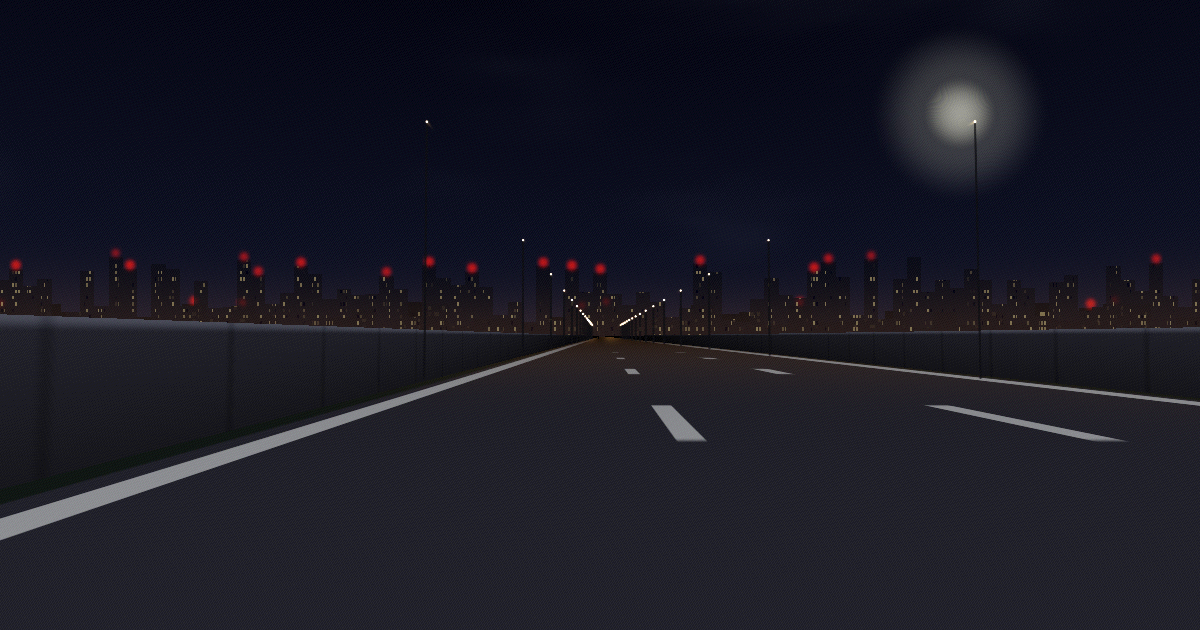
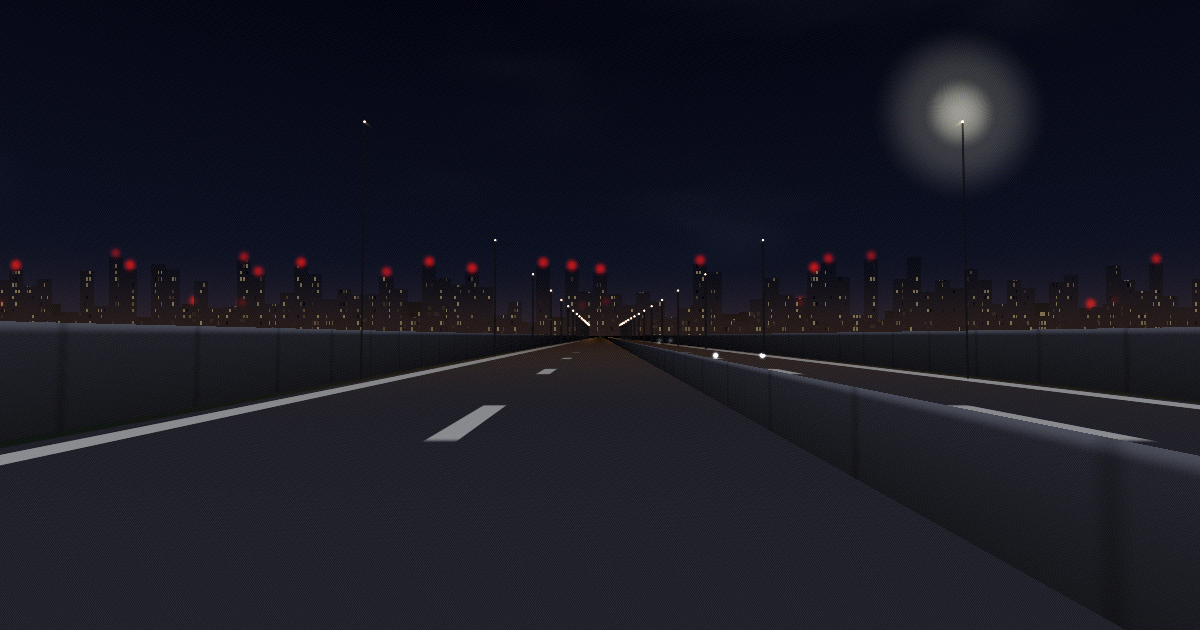
Divided 4-lane highway + occasional oncoming cars with headlights
- 4 lanes (2+2) split by a central median guardrail: lanes=4, road
  widened (roadHalfWidth 10), camera moved to the inner left lane
  (laneOffset -2.5). Lane loop skips the centre divider; the wall pass now
  renders three barriers (left/right wall + centre median, u_medianHeight).
- Oncoming traffic on the far carriageway: scene.js spawns a car every
  carMinGap..carMaxGap s (default 40-120 s), approaching at carSpeed and
  despawning after it passes; up to 4 tracked. Passed to the shader as
  u_cars[4] (laneX, Z); headlights are projected as bright point glows
  (u_carHead* / u_carHeadCol), fogged with distance and dimmed where the
  median occludes (reuses u_wallLight). Headlights kept point-bright
  (distance scales size, not brightness).
- Fix: query the array uniform as u_cars[0] (bare name returned null →
  cars never uploaded). Tests/OG set u_cars[0] and exercise oncoming cars.

https://claude.ai/code/session_014aiygT373NYLjej9iisv7b

diff --git a/js/shaders.js b/js/shaders.js
@@ -85,6 +85,7 @@ void main(){
         for (int j = 1; j < 8; j++) {
             if (j >= u_laneCount) break;
             float pos = -u_laneEdge + float(j) * (2.0 * u_laneEdge / float(u_laneCount));
+            if (abs(pos) < 0.03) continue;   // 中央（分離帯）は破線でなくガードレール
             float dline = 1.0 - smoothstep(0.020, 0.020 + aa, abs(lane - pos));
             marks = max(marks, dline * dash);
         }
@@ -171,35 +172,37 @@ void main(){
     // 地平線の暖色かすみ（真の地平線 dir.y≈0 に沿う）
     col += u_hazeCol * exp(-(dir.y * dir.y) * u_hazeSharp) * u_hazeIntensity;
 
-    // ===== 道路脇の塀（左右の垂直な壁。x=±(roadHalfWidth+offset) の平面と交差）=====
+    // ===== 塀（左右の壁）＋ 中央分離帯のガードレール（垂直面 x=baseX と交差）=====
     if (u_wall > 0.5 && abs(dir.x) > 1e-4) {
         float wallBestT = 1e9;
         vec3 wallShade = vec3(0.0);
         bool wallHit = false;
         float tgRoad = (dir.y < -0.0008) ? (-u_camHeight / dir.y) : 1e9; // 道路面までの距離（手前遮蔽判定用）
-        for (int s = 0; s < 2; s++) {
-            float sgn = (s == 0) ? -1.0 : 1.0;
-            float baseX = sgn * (u_roadHalfWidth + u_wallOffset);
+        for (int s = 0; s < 3; s++) {
+            // s=0:左壁  s=1:右壁  s=2:中央分離帯（低いガードレール）
+            float baseX = (s == 0) ? -(u_roadHalfWidth + u_wallOffset)
+                        : (s == 1) ?  (u_roadHalfWidth + u_wallOffset) : 0.0;
+            float hgt = (s == 2) ? u_medianHeight : u_wallHeight;
             float t = (baseX - u_camX) / dir.x;
             if (t <= 0.0) continue;
             float zhit = t * dir.z;
             if (zhit <= 0.0) continue;
-            // 道路のカーブに合わせて壁の X 位置を補正して再交差
+            // 道路のカーブに合わせて X 位置を補正して再交差
             float wx = baseX + curveAt(zhit);
             t = (wx - u_camX) / dir.x;
             if (t <= 0.0) continue;
             zhit = t * dir.z;
             if (zhit <= 0.0) continue;
             float yhit = u_camHeight + t * dir.y;
-            if (yhit < 0.0 || yhit > u_wallHeight) continue;  // 壁の上下からはみ出したら背景
+            if (yhit < 0.0 || yhit > hgt) continue;           // 壁の上下からはみ出したら背景
             if (t >= tgRoad) continue;                        // 道路面が手前にあるなら見えない
             if (t >= wallBestT) continue;
             wallBestT = t;
             wallHit = true;
             float fog = exp(-zhit * u_fogDensity);
-            float yn = clamp(yhit / u_wallHeight, 0.0, 1.0);
+            float yn = clamp(yhit / hgt, 0.0, 1.0);
             vec3 c = mix(u_wallCol * 0.6, u_wallCol, yn);                 // 下ほど暗い
-            c = mix(c, u_wallTopCol, smoothstep(0.90, 1.0, yn));         // 笠木（上端）の明るい縁
+            c = mix(c, u_wallTopCol, smoothstep(0.88, 1.0, yn));         // 笠木（上端）の明るい縁
             float fz = fract(zhit / 3.0);                                // 3m ごとのパネル継ぎ目
             float seam = smoothstep(0.0, 0.05, fz) * (1.0 - smoothstep(0.95, 1.0, fz));
             c *= mix(0.78, 1.0, seam);
@@ -273,7 +276,27 @@ void main(){
         }
     }
 
-    // 塀は不透明な手前の面なので、灯のライトの滲みを抑える
+    // ===== 対向車のヘッドライト（反対車線。u_cars[k] = (laneX, Z)。Z<=0 は非アクティブ）=====
+    for (int k = 0; k < 4; k++) {
+        vec2 car = u_cars[k];
+        float cz = car.y;
+        if (cz <= 0.5) continue;
+        float cxBase = car.x + curveAt(cz) - u_camX;
+        for (int hl = 0; hl < 2; hl++) {
+            float off = (hl == 0) ? -u_carTrack : u_carTrack;
+            vec3 hp = project(vec3(cxBase + off, u_carHeadH - u_camHeight, cz), cp, sp, tanX, tanY);
+            if (hp.z <= 0.05) continue;
+            float ps = clamp(1.0 / hp.z, 0.05, 3.0);
+            vec2 Hp = vec2(hp.x * aspect, hp.y);
+            vec2 Pp = vec2(uv.x * aspect, uv.y);
+            float r = u_carHeadSize * ps + 0.0025;   // 近いほど大きく
+            float d = distance(Pp, Hp);
+            float fade = exp(-cz * u_fogDensity);     // ヘッドライトは点光源：減衰は大気フェードのみ
+            light += u_carHeadCol * exp(-(d * d) / (r * r)) * u_carHeadBright * fade;
+        }
+    }
+
+    // 塀は不透明な手前の面なので、灯のライト（対向車含む）の滲みを抑える
     if (onWall) light *= u_wallLight;
 
     // 彩度を少し上げて全体を鮮明に（背景のみ）
@@ -306,7 +329,7 @@ NH.buildFragment = function (opts) {
     head += opts.derivatives ? "#define AAW(x) (fwidth(x))\n" : "#define AAW(x) (0.0)\n";
 
     // エンジン uniform ＋ PARAMS 由来 uniform
-    var decls = "uniform vec2 u_res;\nuniform float u_scroll;\nuniform float u_sway;\nuniform float u_time;\nuniform float u_cityPhase;\nuniform float u_cityScroll;\nuniform float u_cloudScroll;\n";
+    var decls = "uniform vec2 u_res;\nuniform float u_scroll;\nuniform float u_sway;\nuniform float u_time;\nuniform float u_cityPhase;\nuniform float u_cityScroll;\nuniform float u_cloudScroll;\nuniform vec2 u_cars[4];\n";
     for (var i = 0; i < params.length; i++) {
         var p = params[i];
         if (p.uniform) decls += "uniform " + glType(p.type) + " " + p.uniform + ";\n";

diff --git a/js/config.js b/js/config.js
@@ -29,15 +29,21 @@ NH.PARAMS = [
     { key: "cityFlowRate",  def: 0.3,   ui: { min: 0, max: 1, step: 0.05 } },  // 都市の揺れ速度（swaySpeed に対する倍率。JS で u_cityPhase を生成）
     { key: "citySpeed",     def: 0.015, ui: { min: 0, max: 0.2, step: 0.005 } }, // 前進に伴う遠景都市の平行移動速度（アスペクトX/秒。JS で u_cityScroll を生成）
 
+    // --- 対向車（JS専用：たまに反対車線を走る）---
+    { key: "carMinGap",     def: 40.0,  ui: { min: 5, max: 120, step: 1 } },   // 出現間隔の最小(秒)
+    { key: "carMaxGap",     def: 120.0, ui: { min: 10, max: 300, step: 5 } },  // 出現間隔の最大(秒)
+    { key: "carSpeed",      def: 42.0,  ui: { min: 10, max: 90, step: 1 } },   // 相対接近速度(m/s)
+    { key: "carSpawnDist",  def: 235.0, ui: { min: 60, max: 400, step: 5 } },  // 出現距離(m)
+
     // --- カメラ ---
     { key: "camHeight",     def: 1.4,   uniform: "u_camHeight",     type: "float", ui: { min: 0.2, max: 10, step: 0.1 } },
     { key: "pitchDeg",      def: 2.0,   uniform: "u_pitch",         type: "float", map: function (v) { return v * D2R; }, ui: { min: -10, max: 20, step: 0.5 } },
     { key: "fovDeg",        def: 55.0,  uniform: "u_fovTan",        type: "float", map: function (v) { return Math.tan(v * D2R * 0.5); }, ui: { min: 30, max: 90, step: 1 } },
-    { key: "laneOffset",    def: -4.0,  uniform: "u_camX",          type: "float", ui: { min: -12, max: 12, step: 0.5 } },
+    { key: "laneOffset",    def: -2.5,  uniform: "u_camX",          type: "float", ui: { min: -12, max: 12, step: 0.5 } }, // 中央分離帯寄りの内側車線
 
     // --- 道路 ---
-    { key: "roadHalfWidth", def: 9.0,   uniform: "u_roadHalfWidth", type: "float", ui: { min: 2, max: 20, step: 0.5 } },
-    { key: "lanes",         def: 3,     uniform: "u_laneCount",     type: "int",   ui: { min: 1, max: 6, step: 1 } },   // 車線数（破線で等分）
+    { key: "roadHalfWidth", def: 10.0,  uniform: "u_roadHalfWidth", type: "float", ui: { min: 2, max: 20, step: 0.5 } },
+    { key: "lanes",         def: 4,     uniform: "u_laneCount",     type: "int",   ui: { min: 1, max: 8, step: 1 } },   // 車線数（2+2を中央分離帯で区切る）
     { key: "roadRaise",     def: 0.25,  uniform: "u_roadRaise",     type: "float", ui: { min: 0, max: 2, step: 0.05 } },  // 外の地面より道路を高く
     { key: "dashLength",    def: 14.0,  uniform: "u_dashLength",    type: "float", ui: { min: 1, max: 30, step: 0.5 } },
     { key: "dashDuty",      def: 0.32,  uniform: "u_dashDuty",      type: "float", ui: { min: 0.1, max: 0.9, step: 0.02 } }, // 塗り割合（小さいほど隙間が長い）
@@ -49,6 +55,13 @@ NH.PARAMS = [
     { key: "wallHeight",    def: 1.6,   uniform: "u_wallHeight",    type: "float", ui: { min: 0.2, max: 4, step: 0.1 } },   // 塀の高さ(m)
     { key: "wallOffset",    def: 0.5,   uniform: "u_wallOffset",    type: "float", ui: { min: 0, max: 4, step: 0.1 } },     // 路端から塀までの距離(m)
     { key: "wallLight",     def: 0.3,   uniform: "u_wallLight",     type: "float", ui: { min: 0, max: 1, step: 0.05 } },   // 塀ピクセルでの灯ライトの残し量（小さいほど塀越しの滲みが減る）
+    { key: "medianHeight",  def: 0.9,   uniform: "u_medianHeight",  type: "float", ui: { min: 0, max: 2, step: 0.05 } },  // 中央分離帯ガードレールの高さ(m)
+
+    // --- 対向車のヘッドライト ---
+    { key: "carHeadH",      def: 0.7,   uniform: "u_carHeadH",      type: "float", ui: { min: 0.2, max: 1.5, step: 0.05 } }, // ヘッドライトの高さ(m)
+    { key: "carTrack",      def: 0.85,  uniform: "u_carTrack",      type: "float", ui: { min: 0.3, max: 1.5, step: 0.05 } }, // 左右ライトの間隔(半幅, m)
+    { key: "carHeadSize",   def: 0.018, uniform: "u_carHeadSize",   type: "float", ui: { min: 0.005, max: 0.06, step: 0.001 } },
+    { key: "carHeadBright", def: 3.2,   uniform: "u_carHeadBright", type: "float", ui: { min: 0.5, max: 8, step: 0.1 } },
 
     // --- 道路照明灯 ---
     { key: "lampSpacing",   def: 30.0,  uniform: "u_lampSpacing",   type: "float", ui: { min: 5, max: 80, step: 1 } },
@@ -116,7 +129,8 @@ NH.PARAMS = [
     { key: "poleCol",    def: [0.04, 0.04, 0.05],   uniform: "u_poleCol",    type: "color", ui: { color: true } },
     { key: "cityCol",    def: [0.02, 0.025, 0.05],  uniform: "u_cityCol",    type: "color", ui: { color: true } },
     { key: "windowCol",  def: [1.00, 0.85, 0.50],   uniform: "u_windowCol",  type: "color", ui: { color: true } },
-    { key: "beaconCol",  def: [1.00, 0.06, 0.03],   uniform: "u_beaconCol",  type: "color", ui: { color: true } }
+    { key: "beaconCol",  def: [1.00, 0.06, 0.03],   uniform: "u_beaconCol",  type: "color", ui: { color: true } },
+    { key: "carHeadCol", def: [0.85, 0.92, 1.00],   uniform: "u_carHeadCol", type: "color", ui: { color: true } }
 ];
 
 // 調整済みの値を残すならここに（"Copy config JSON" の出力を貼る）

diff --git a/js/scene.js b/js/scene.js
@@ -17,6 +17,8 @@ NH.createScene = function (canvas, config) {
     var prog = null, buf = null, U = {}, locReady = false;
     var raf = 0, running = false, lost = false, disposed = false;
     var lastT = 0, scrollDist = 0, animTime = 0, wrapMeters = 1.0, cityScroll = 0, cloudScroll = 0;
+    var cars = [], carTimer = 6 + Math.random() * 24;     // 対向車（最大4台）＋次の出現までの秒数
+    var carData = new Float32Array(8);                    // u_cars[4] = (laneX, Z)
     var ro = null;
     var reduceMQ = window.matchMedia ? window.matchMedia("(prefers-reduced-motion: reduce)") : { matches: false };
 
@@ -82,7 +84,8 @@ NH.createScene = function (canvas, config) {
             u_time: gl.getUniformLocation(prog, "u_time"),
             u_cityPhase: gl.getUniformLocation(prog, "u_cityPhase"),
             u_cityScroll: gl.getUniformLocation(prog, "u_cityScroll"),
-            u_cloudScroll: gl.getUniformLocation(prog, "u_cloudScroll")
+            u_cloudScroll: gl.getUniformLocation(prog, "u_cloudScroll"),
+            u_cars: gl.getUniformLocation(prog, "u_cars[0]")
         };
         for (var i = 0; i < params.length; i++) {
             if (params[i].uniform) U[params[i].uniform] = gl.getUniformLocation(prog, params[i].uniform);
@@ -139,7 +142,35 @@ NH.createScene = function (canvas, config) {
         // 薄雲の連続ドリフト。mediump 安全のため有界化
         gl.uniform1f(U.u_cloudScroll, cloudScroll % 100.0);
         gl.uniform1f(U.u_time, animTime % 100.0);   // 窓の瞬き用（有界）
+        if (U.u_cars) {
+            for (var ci = 0; ci < 4; ci++) {
+                var car = cars[ci];
+                carData[ci * 2] = car ? car.x : 0.0;
+                carData[ci * 2 + 1] = car ? car.z : -1.0;   // Z<=0 は非アクティブ
+            }
+            gl.uniform2fv(U.u_cars, carData);
+        }
         gl.drawArrays(gl.TRIANGLES, 0, 3);
+    }
+
+    // 対向車：反対車線(x>0)を手前へ走る。たまに(carMinGap〜carMaxGap秒)1台出現。
+    function updateCars(dt) {
+        for (var i = cars.length - 1; i >= 0; i--) {
+            cars[i].z -= cars[i].speed * dt;       // 接近（Zが減る）
+            if (cars[i].z < -8) cars.splice(i, 1); // 通過したら消す
+        }
+        carTimer -= dt;
+        if (carTimer <= 0) {
+            var gap = config.carMinGap + Math.random() * Math.max(0, config.carMaxGap - config.carMinGap);
+            carTimer = gap;
+            if (cars.length < 4) {
+                var hw = config.roadHalfWidth;
+                var laneC = (Math.random() < 0.5 ? 0.25 : 0.75) * hw;     // 反対側2車線のどちらか
+                var x = laneC + (Math.random() - 0.5) * hw * 0.12;        // 車線内の微小ばらつき
+                var sp = config.carSpeed * (0.85 + Math.random() * 0.3);  // 速度ばらつき
+                cars.push({ x: x, z: config.carSpawnDist, speed: sp });
+            }
+        }
     }
 
     function loop(now) {
@@ -152,6 +183,7 @@ NH.createScene = function (canvas, config) {
             cloudScroll += dt * config.cloudSpeed;
             animTime += dt;
             if (animTime > 1e4) animTime -= 1e4;
+            updateCars(dt);
         }
         render();
         raf = requestAnimationFrame(loop);

diff --git a/test/check-uniforms.js b/test/check-uniforms.js
@@ -26,7 +26,7 @@ function fail(msg) { console.error("FAIL: " + msg); process.exit(1); }
 if (!NH || !NH.PARAMS || !NH.FRAG_BODY) fail("NH not initialized from browser scripts");
 
 // エンジン uniform（buildFragment が常に前置する）＋ PARAMS 由来の uniform
-var ENGINE = ["u_res", "u_scroll", "u_sway", "u_time", "u_cityPhase", "u_cityScroll", "u_cloudScroll"];
+var ENGINE = ["u_res", "u_scroll", "u_sway", "u_time", "u_cityPhase", "u_cityScroll", "u_cloudScroll", "u_cars"];
 var declared = {};
 ENGINE.forEach(function (u) { declared[u] = true; });
 NH.PARAMS.forEach(function (p) { if (p.uniform) declared[p.uniform] = true; });

diff --git a/test/render-smoke.js b/test/render-smoke.js
@@ -58,6 +58,7 @@ function setUniforms(gl, prog, W, H) {
     gl.uniform1f(loc("u_cityScroll"), 2.0);  // 都市の前進平行移動
     gl.uniform1f(loc("u_cloudScroll"), 1.0); // 薄雲の連続ドリフト
     gl.uniform1f(loc("u_time"), 3.0);        // 窓の瞬き・障害灯点滅の時間依存パスを踏む
+    gl.uniform2fv(loc("u_cars[0]"), new Float32Array([2.5, 28, 7.5, 60, 0, -1, 0, -1])); // 対向車2台
     NH.PARAMS.forEach(function (p) {
         if (!p.uniform) return;
         var l = loc(p.uniform);

diff --git a/scripts/make-og.js b/scripts/make-og.js
@@ -62,6 +62,7 @@ gl.uniform1f(loc("u_cityPhase"), 0.4);
 gl.uniform1f(loc("u_cityScroll"), 1.5);
 gl.uniform1f(loc("u_cloudScroll"), 1.2);
 gl.uniform1f(loc("u_time"), 2.0);
+gl.uniform2fv(loc("u_cars[0]"), new Float32Array([2.5, 22, 7.5, 95, 0, -1, 0, -1])); // 対向車2台（手前/奥）
 NH.PARAMS.forEach(function (p) {
     if (!p.uniform) return;
     var l = loc(p.uniform);
